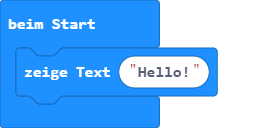
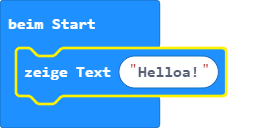
Aktualisiere pxt.json, main.blocks, main.ts

Changed region(s): [[0.0297, 0.0, 0.8327, 1.0], [0.0297, 0.125, 0.3569, 0.25]]

diff --git a/main.ts b/main.ts
@@ -1,1 +1,1 @@
-basic.showString("Helelo!")
+basic.showString("Helloa!")
